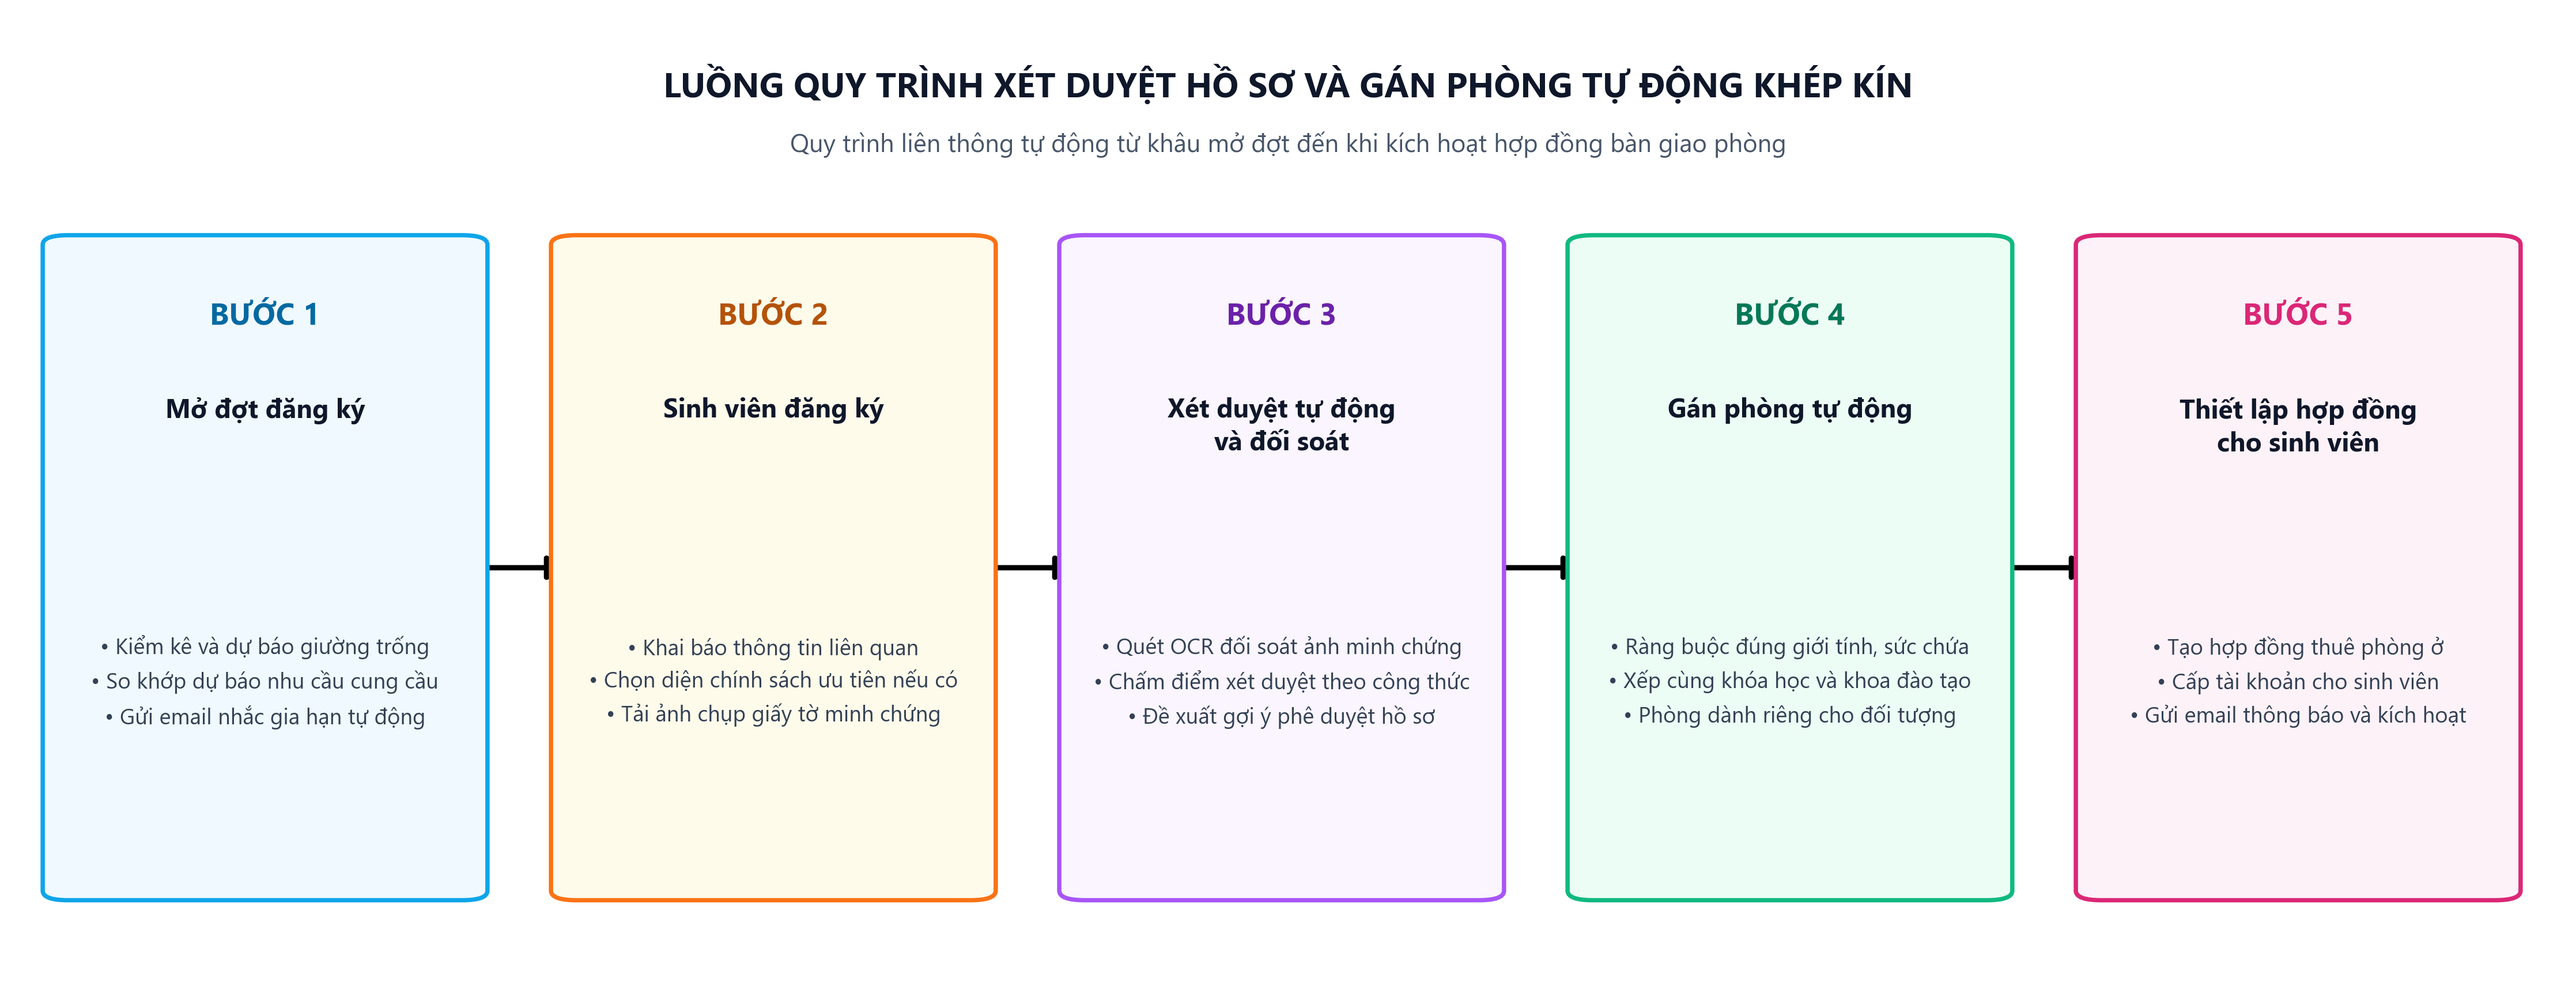
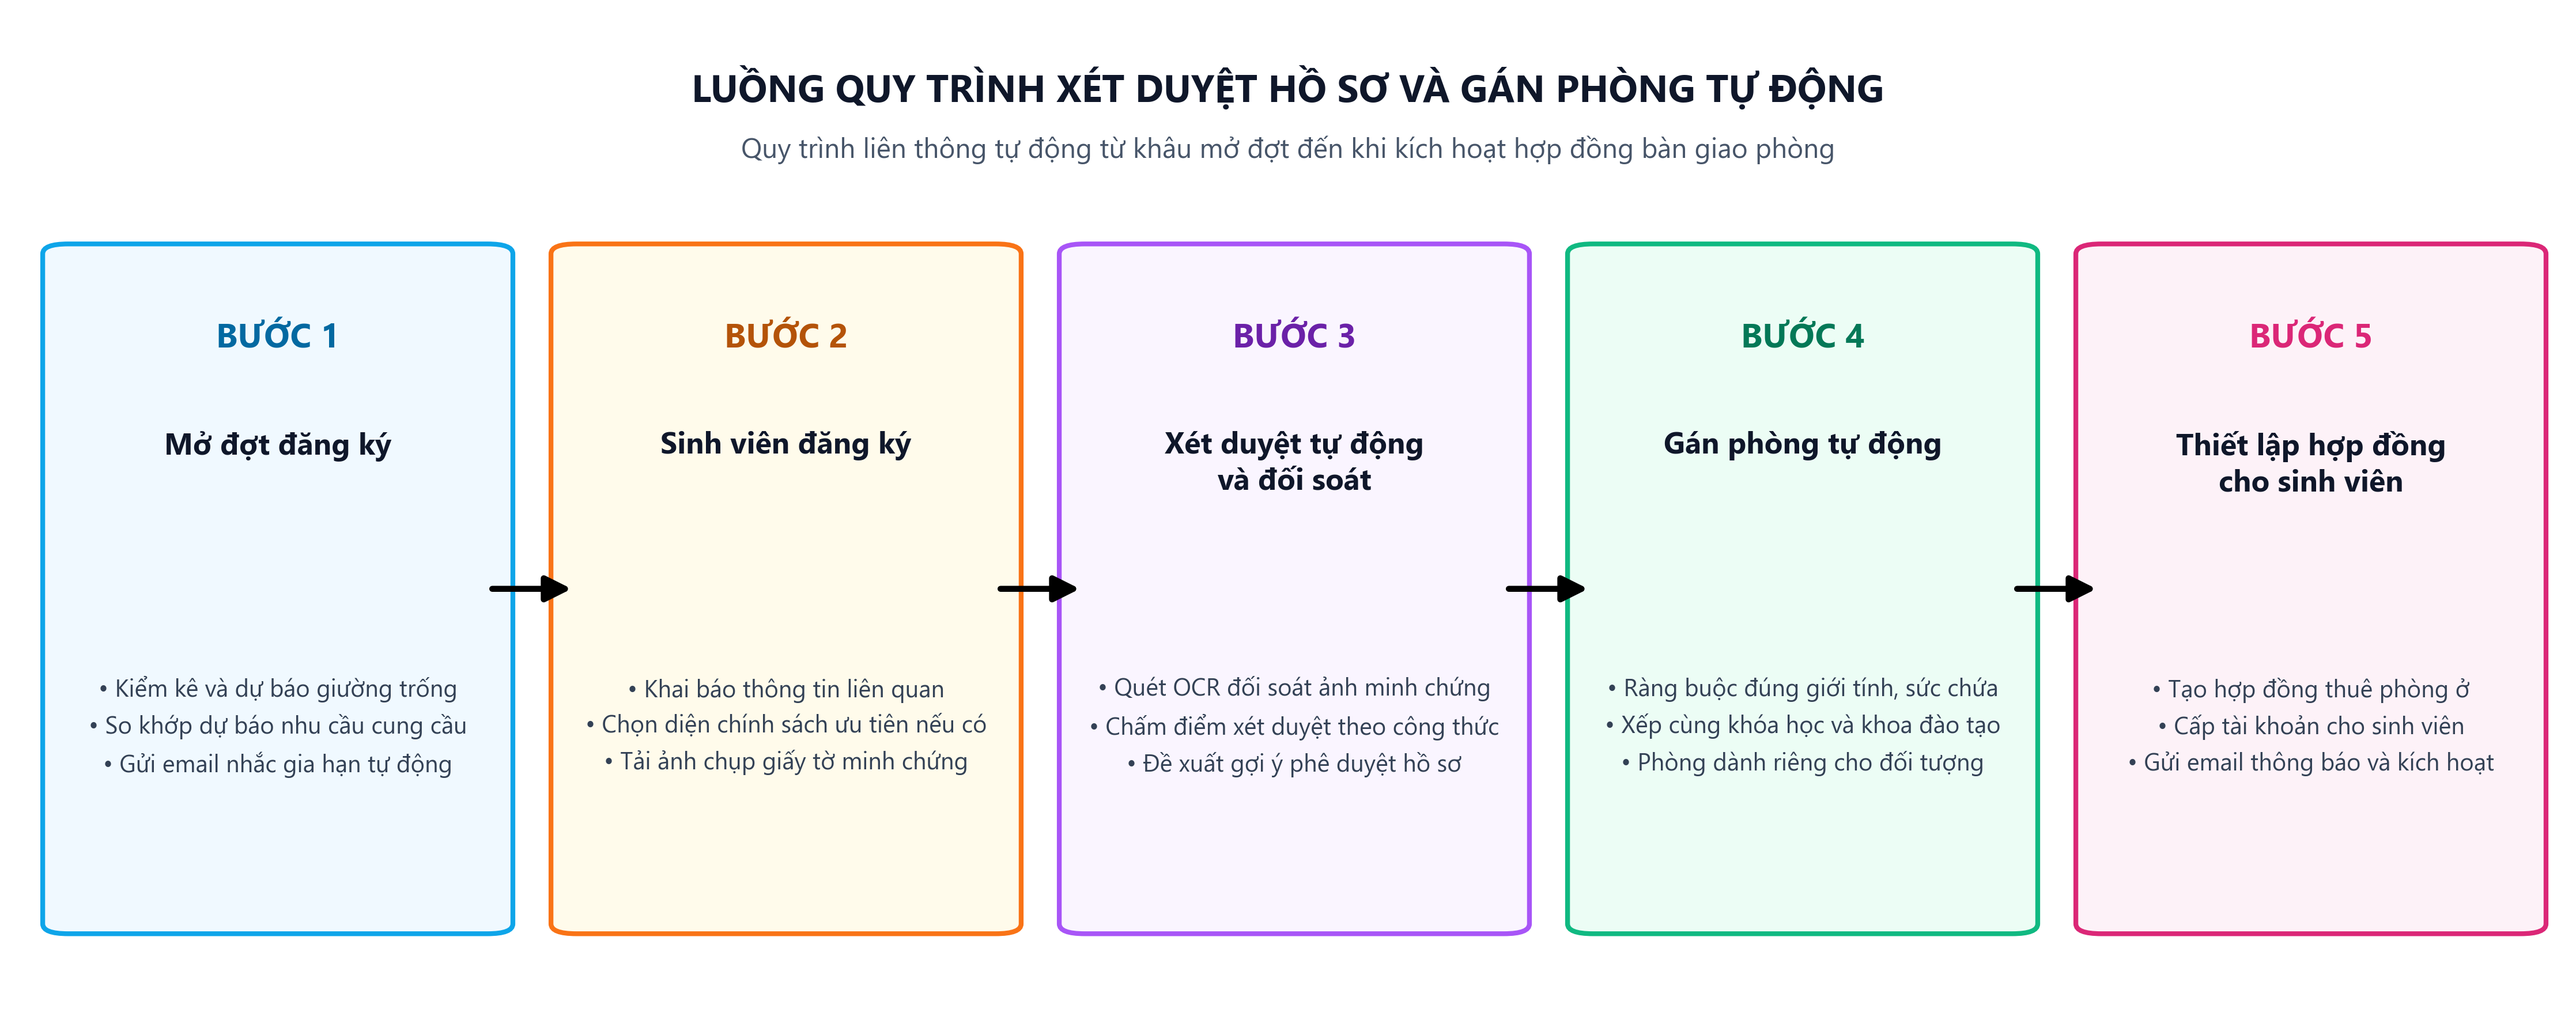
fix

diff --git a/results/generate_slide_pipeline.py b/results/generate_slide_pipeline.py
@@ -29,43 +29,43 @@ COLOR_TEXT5 = '#db2777'
 save_dir = os.path.dirname(os.path.abspath(__file__))
 image_path = os.path.join(save_dir, "slide_pipeline_xetduyet_ganphong.png")
 
-fig, ax = plt.subplots(figsize=(15, 5.8), dpi=300)
+fig, ax = plt.subplots(figsize=(15, 6.0), dpi=300)
 fig.patch.set_facecolor('white')
 ax.set_facecolor('white')
 ax.axis('off')
 
-# 5 Steps cards with updated details
+# 5 Steps cards with updated details and slightly wider width (0.165)
 cards = [
     {
-        'x': 0.02, 'y': 0.08, 'w': 0.155, 'h': 0.68,
+        'x': 0.02, 'y': 0.08, 'w': 0.165, 'h': 0.68,
         'step': 'BƯỚC 1',
         'title': 'Mở đợt đăng ký',
         'desc': '• Kiểm kê và dự báo giường trống\n• So khớp dự báo nhu cầu cung cầu\n• Gửi email nhắc gia hạn tự động',
         'bg': COLOR_BG1, 'border': COLOR_BORDER1, 'text': COLOR_TEXT1
     },
     {
-        'x': 0.22, 'y': 0.08, 'w': 0.155, 'h': 0.68,
+        'x': 0.22, 'y': 0.08, 'w': 0.165, 'h': 0.68,
         'step': 'BƯỚC 2',
         'title': 'Sinh viên đăng ký',
         'desc': '• Khai báo thông tin liên quan\n• Chọn diện chính sách ưu tiên nếu có\n• Tải ảnh chụp giấy tờ minh chứng',
         'bg': COLOR_BG4, 'border': COLOR_BORDER4, 'text': COLOR_TEXT4
     },
     {
-        'x': 0.42, 'y': 0.08, 'w': 0.155, 'h': 0.68,
+        'x': 0.42, 'y': 0.08, 'w': 0.165, 'h': 0.68,
         'step': 'BƯỚC 3',
         'title': 'Xét duyệt tự động\nvà đối soát',
         'desc': '• Quét OCR đối soát ảnh minh chứng\n• Chấm điểm xét duyệt theo công thức\n• Đề xuất gợi ý phê duyệt hồ sơ',
         'bg': COLOR_BG3, 'border': COLOR_BORDER3, 'text': COLOR_TEXT3
     },
     {
-        'x': 0.62, 'y': 0.08, 'w': 0.155, 'h': 0.68,
+        'x': 0.62, 'y': 0.08, 'w': 0.165, 'h': 0.68,
         'step': 'BƯỚC 4',
         'title': 'Gán phòng tự động',
         'desc': '• Ràng buộc đúng giới tính, sức chứa\n• Xếp cùng khóa học và khoa đào tạo\n• Phòng dành riêng cho đối tượng',
         'bg': COLOR_BG2, 'border': COLOR_BORDER2, 'text': COLOR_TEXT2
     },
     {
-        'x': 0.82, 'y': 0.08, 'w': 0.155, 'h': 0.68,
+        'x': 0.82, 'y': 0.08, 'w': 0.165, 'h': 0.68,
         'step': 'BƯỚC 5',
         'title': 'Thiết lập hợp đồng\ncho sinh viên',
         'desc': '• Tạo hợp đồng thuê phòng ở\n• Cấp tài khoản cho sinh viên\n• Gửi email thông báo và kích hoạt',
@@ -79,53 +79,54 @@ for card in cards:
     box = FancyBboxPatch(
         (card['x'], card['y']), card['w'], card['h'],
         boxstyle="round,pad=0.01",
-        facecolor=card['bg'], edgecolor=card['border'], linewidth=1.8, zorder=2
+        facecolor=card['bg'], edgecolor=card['border'], linewidth=2.0, zorder=2
     )
     ax.add_patch(box)
     
-    # Step title
+    # Step title (Larger Font Size)
     ax.text(
-        card['x'] + card['w']/2, card['y'] + card['h'] - 0.06,
+        card['x'] + card['w']/2, card['y'] + card['h'] - 0.07,
         card['step'],
-        ha='center', va='top', fontsize=12.5, fontweight='bold', color=card['text'], zorder=3
+        ha='center', va='top', fontsize=14.0, fontweight='bold', color=card['text'], zorder=3
     )
     
-    # Title
+    # Title (Larger Font Size)
     ax.text(
-        card['x'] + card['w']/2, card['y'] + card['h'] - 0.16,
+        card['x'] + card['w']/2, card['y'] + card['h'] - 0.18,
         card['title'],
-        ha='center', va='top', fontsize=11.0, fontweight='bold', color='#0f172a', linespacing=1.3, zorder=3
+        ha='center', va='top', fontsize=12.5, fontweight='bold', color='#0f172a', linespacing=1.3, zorder=3
     )
     
-    # Description
+    # Description (Larger Font Size, clean bullets)
     ax.text(
-        card['x'] + card['w']/2, card['y'] + 0.22,
+        card['x'] + card['w']/2, card['y'] + 0.20,
         card['desc'],
-        ha='center', va='center', fontsize=9.2, color='#334155', linespacing=1.6, zorder=3
+        ha='center', va='center', fontsize=10.0, color='#334155', linespacing=1.6, zorder=3
     )
 
-# Draw solid black arrows
+# Draw solid black arrows (with zorder=4 to stay ON TOP of the cards' background)
+# We set start/end coordinates slightly overlapping the boxes to show the arrowhead clearly pointing to the box border
 arrows = [
-    ((0.175, 0.42), (0.22, 0.42)),
-    ((0.375, 0.42), (0.42, 0.42)),
-    ((0.575, 0.42), (0.62, 0.42)),
-    ((0.775, 0.42), (0.82, 0.42))
+    ((0.185, 0.42), (0.22, 0.42)),
+    ((0.385, 0.42), (0.42, 0.42)),
+    ((0.585, 0.42), (0.62, 0.42)),
+    ((0.785, 0.42), (0.82, 0.42))
 ]
 
 for start, end in arrows:
     arrow = FancyArrowPatch(
         start, end,
         arrowstyle="-|>",
-        color='#000000', linewidth=2.2, zorder=1,
-        mutation_scale=20
+        color='#000000', linewidth=2.5, zorder=4,
+        mutation_scale=22
     )
     ax.add_patch(arrow)
 
-# Main Title
-ax.text(0.5, 0.95, 'LUỒNG QUY TRÌNH XÉT DUYỆT HỒ SƠ VÀ GÁN PHÒNG TỰ ĐỘNG KHÉP KÍN', 
-        ha='center', va='top', fontsize=14.5, fontweight='bold', color='#0f172a')
+# Main Title (Larger Font Size and removed "khép kín")
+ax.text(0.5, 0.95, 'LUỒNG QUY TRÌNH XÉT DUYỆT HỒ SƠ VÀ GÁN PHÒNG TỰ ĐỘNG', 
+        ha='center', va='top', fontsize=16.0, fontweight='bold', color='#0f172a')
 ax.text(0.5, 0.88, 'Quy trình liên thông tự động từ khâu mở đợt đến khi kích hoạt hợp đồng bàn giao phòng', 
-        ha='center', va='top', fontsize=10.5, color='#475569')
+        ha='center', va='top', fontsize=11.5, color='#475569')
 
 ax.set_xlim(0, 1)
 ax.set_ylim(0, 1)
@@ -133,4 +134,4 @@ ax.set_ylim(0, 1)
 plt.tight_layout()
 plt.savefig(image_path, dpi=300, facecolor=fig.get_facecolor(), bbox_inches='tight')
 plt.close()
-print("Slide pipeline chart updated successfully with black arrows!")
+print("Slide pipeline chart updated successfully with larger text and visible black arrows!")
